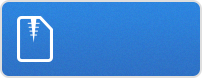
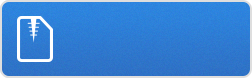
Update button images

Changed region(s): [[0.0594, 0.2051, 0.2673, 0.7949], [0.9505, 0.0256, 1.0, 0.9744], [0.0, 0.0256, 0.0594, 0.9744]]

diff --git a/stylesheets/stylesheet.css b/stylesheets/stylesheet.css
@@ -129,7 +129,7 @@ aside#sidebar p.repo-owner a {
 }
 
 a.button {
-  width: 200px;
+  width: 184px;
   height: 58px;
   line-height: 1.2;
   font-size: 23px;
@@ -149,7 +149,7 @@ header a.button {
   background: transparent url(../images/github-button.png) 0 0 no-repeat;
 }
 aside a.button {
-  width: 200px;
+  width: 188px;
   padding-left: 64px;
   display: block;
   background: transparent url(../images/download-button.png) 0 0 no-repeat;
@@ -158,7 +158,7 @@ aside a.button {
 }
 
 aside a.installer {
-  width: 200px;
+  width: 188px;
   padding-left: 64px;
   display: block;
   background: transparent url(../images/installer-button.png) 0 0 no-repeat;
